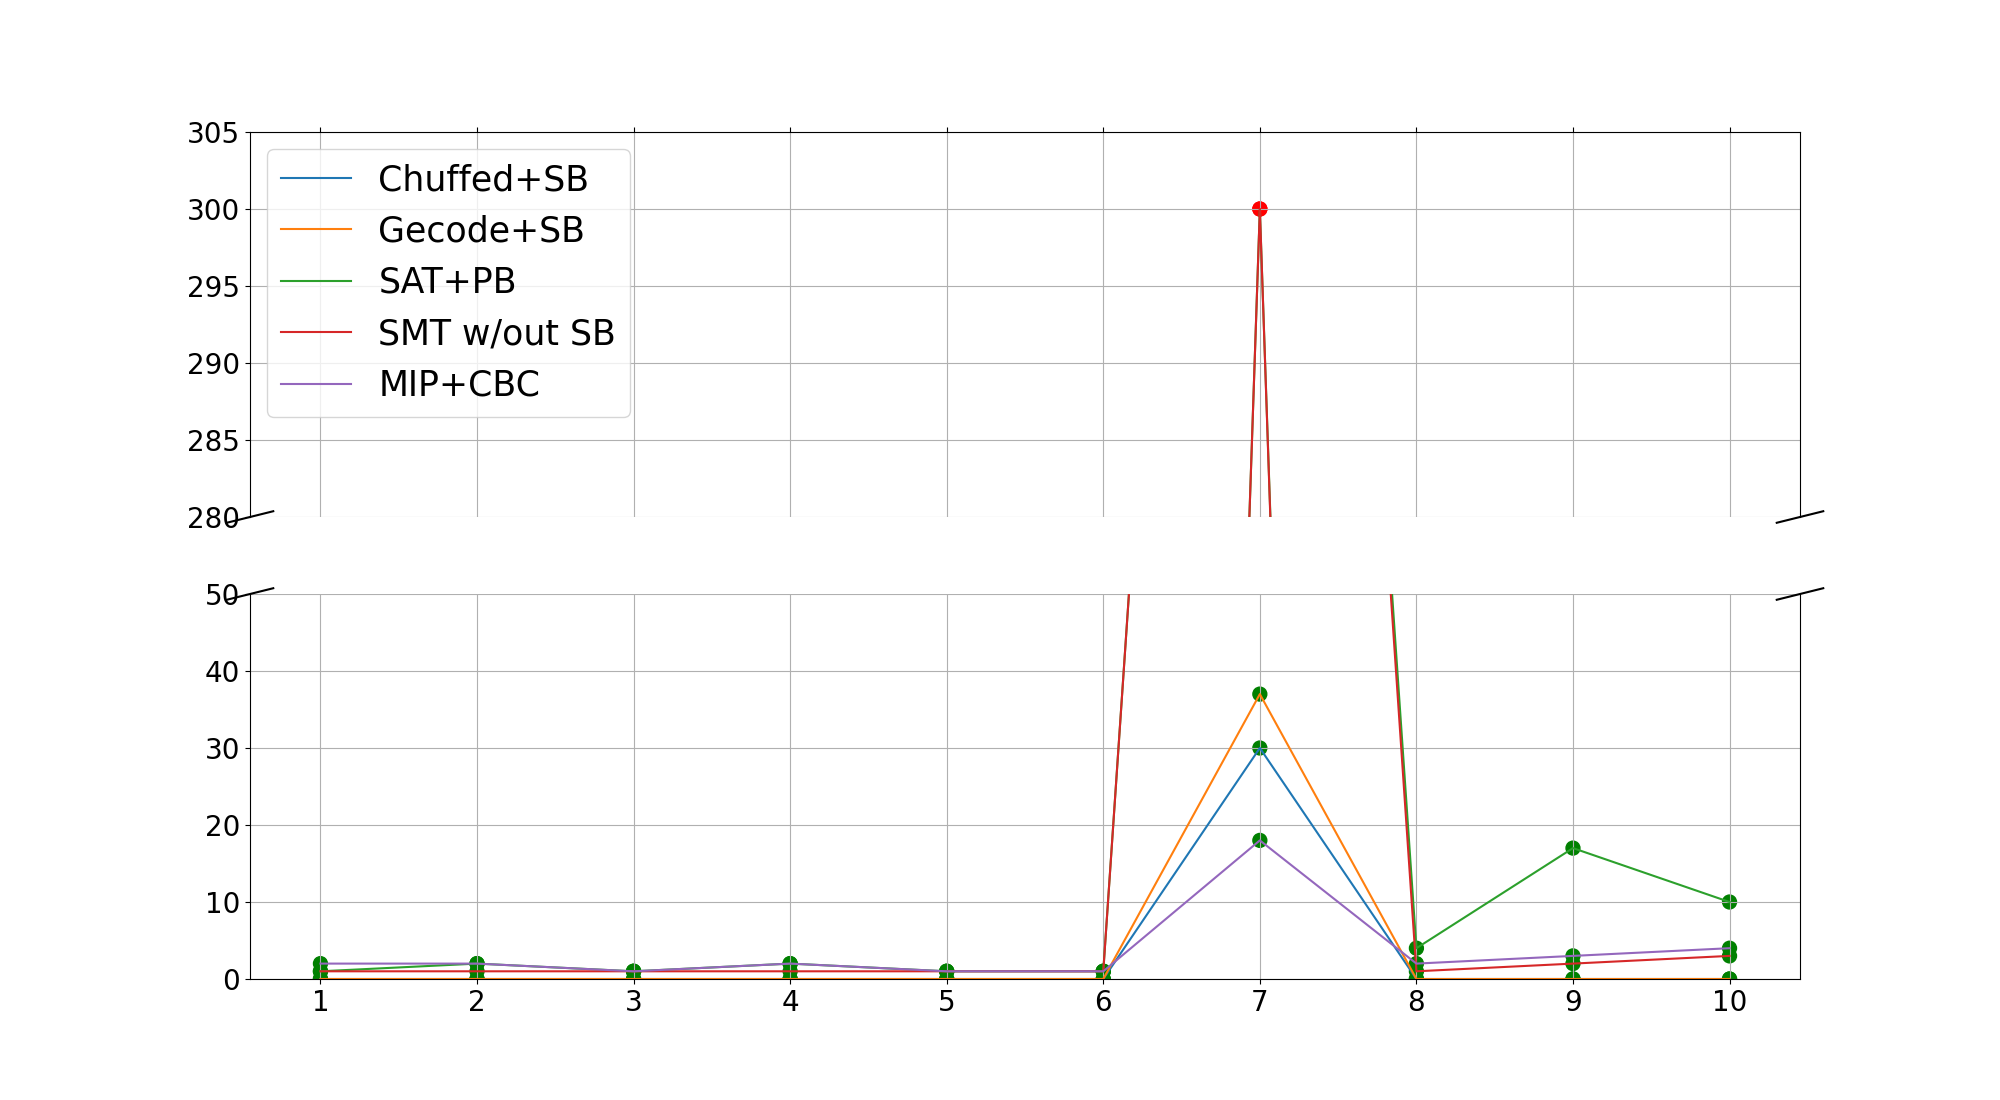
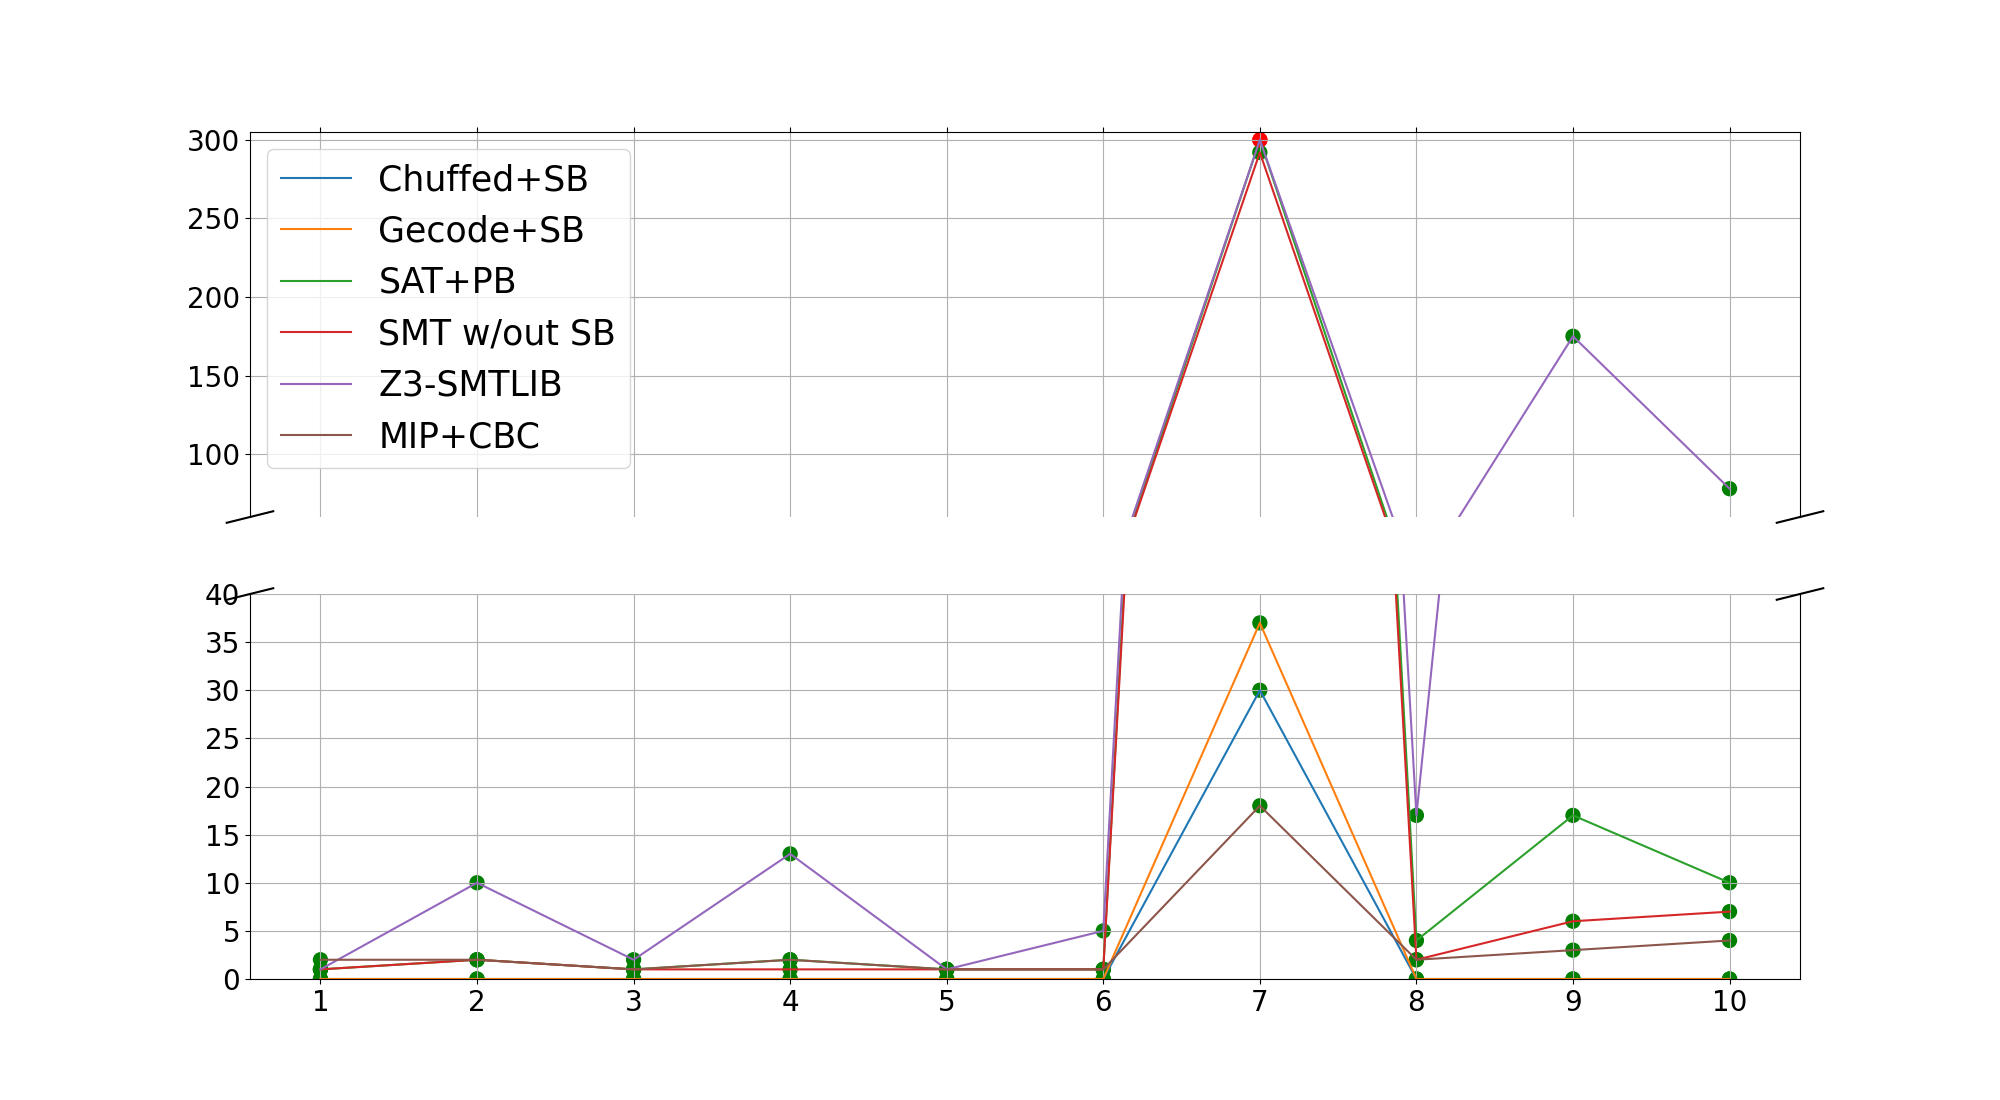
Code to generate chart

diff --git a/res/generate_plot.py b/res/generate_plot.py
@@ -5,7 +5,7 @@ import matplotlib.pyplot as plt
 import numpy as np
 
 
-technologies = ["CP", "SAT", "SMT", "MIP"]
+technologies = ["CP", "SAT", "SMT", "MIP", "SMT-LIB"]
 
 
 keys_to_method = {
@@ -17,10 +17,13 @@ keys_to_method = {
         'pb': 'SAT + Pseudo-Boolean',
     },
     "SMT": {
-        "standard": "SMT w/out SB"
+        "symmetry_breaking": "SMT + SB"
     },
     "MIP":{
         'cbc': 'CBC',
+    },
+    "SMT-LIB":{
+        'z3': "SMTLIB-z3"
     }
 }
 
@@ -65,6 +68,7 @@ cp_df = pd.read_csv("./CP.csv")
 sat_df = pd.read_csv("./SAT.csv")
 smt_df = pd.read_csv("./SMT.csv")
 mip_df = pd.read_csv("./MIP.csv")
+z3_df = pd.read_csv("./SMT-LIB.csv")
 
 chuf_sb_sol = cp_df['Chuffed + SB'].tolist()[:max_instances]
 chuf_sb_opt = cp_df['SOL_Chuffed_sb'].tolist()[:max_instances]
@@ -78,14 +82,17 @@ sat_sol = sat_df['SAT + Pseudo-Boolean'].tolist()[:max_instances]
 sat_opt = sat_df['SOL_pb'].tolist()[:max_instances]
 sat_marker = np.array(['green' if c else 'red' for c in sat_opt])
 
-smt_sol = smt_df['SMT w/out SB'].tolist()[:max_instances]
-smt_opt = smt_df['SOL_standard'].tolist()[:max_instances]
+smt_sol = smt_df['SMT + SB'].tolist()[:max_instances]
+smt_opt = smt_df['SOL_symmetry_breaking'].tolist()[:max_instances]
 smt_marker = np.array(['green' if c else 'red' for c in smt_opt])
 
 mip_sol = mip_df['CBC'].tolist()[:max_instances]
 mip_opt = mip_df['SOL_cbc'].tolist()[:max_instances]
 mip_marker = np.array(['green' if c else 'red' for c in mip_opt])
 
+z3_sol = z3_df['SMTLIB-z3'].tolist()[:max_instances]
+z3_opt = z3_df['SOL_z3'].tolist()[:max_instances]
+z3_marker = np.array(['green' if c else 'red' for c in z3_opt])
 
 instances = list(range(1,max_instances+1))
 
@@ -98,28 +105,32 @@ ax.plot(instances, chuf_sb_sol)
 ax.plot(instances, gec_sb_sol)
 ax.plot(instances, sat_sol)
 ax.plot(instances, smt_sol)
+ax.plot(instances, z3_sol)
 ax.plot(instances, mip_sol)
 
 ax2.plot(instances, chuf_sb_sol)
 ax2.plot(instances, gec_sb_sol)
 ax2.plot(instances, sat_sol)
 ax2.plot(instances, smt_sol)
+ax2.plot(instances, z3_sol)
 ax2.plot(instances, mip_sol)
 
 ax.scatter(instances, chuf_sb_sol, c=chuf_marker, s=100)
 ax.scatter(instances, gec_sb_sol, c=gec_marker, s=100)
 ax.scatter(instances, sat_sol, c=sat_marker, s=100)
 ax.scatter(instances, smt_sol, c=smt_marker, s=100)
+ax.scatter(instances, z3_sol, c=z3_marker, s=100)
 ax.scatter(instances, mip_sol, c=mip_marker, s=100)
 
 ax2.scatter(instances, chuf_sb_sol, c=chuf_marker, s=100)
 ax2.scatter(instances, gec_sb_sol, c=gec_marker, s=100)
 ax2.scatter(instances, sat_sol, c=sat_marker, s=100)
 ax2.scatter(instances, smt_sol, c=smt_marker, s=100)
+ax2.scatter(instances, z3_sol, c=z3_marker, s=100)
 ax2.scatter(instances, mip_sol, c=mip_marker, s=100)
 
-ax.set_ylim(280, 305)  # most of the data
-ax2.set_ylim(0, 50)  # outliers only
+ax.set_ylim(60, 305)  # most of the data
+ax2.set_ylim(0, 40)  # outliers only
 d = .015  # how big to make the diagonal lines in axes coordinates
 # arguments to pass to plot, just so we don't keep repeating them
 kwargs = dict(transform=ax.transAxes, color='k', clip_on=False)
@@ -152,7 +163,7 @@ for tick in ax2.yaxis.get_major_ticks():
 ax.grid(True)
 ax2.grid(True)
 plt.plot()
-ax.legend(['Chuffed+SB', 'Gecode+SB', 'SAT+PB', 'SMT w/out SB', 'MIP+CBC'],loc='upper left', fontsize=25)
+ax.legend(['Chuffed+SB', 'Gecode+SB', 'SAT+PB', 'SMT w/out SB', 'Z3-SMTLIB', 'MIP+CBC'],loc='upper left', fontsize=25)
 plt.savefig("./chart.png")
 
 # deleting csv files
@@ -160,4 +171,5 @@ os.remove("./CP.csv")
 os.remove("./MIP.csv")
 os.remove("./SAT.csv")
 os.remove("./SMT.csv")
+os.remove("./SMT-LIB.csv")
 
